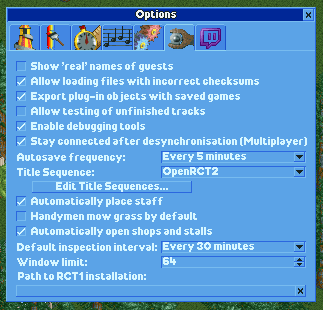
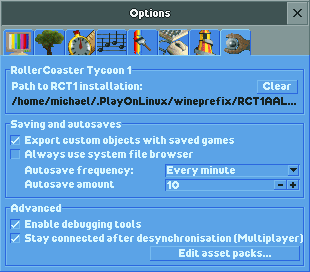
Add section about linking to GOG’s RCT1 version on Linux, update linking screenshot

diff --git a/installing/installing-on-linux-bsd.rst b/installing/installing-on-linux-bsd.rst
@@ -223,7 +223,22 @@ Steam
 
 Since RollerCoaster Tycoon 1 is a Windows game, you must first enable Steam Play if you haven’t done so already. To do this, use the menus: :menuselection:`Steam --> Settings --> Steam Play` and tick the options ``Enable Steam Play for supported titles`` and ``Enable Steam Play for all other titles``.
 
-With Steam Play enabled, the Install button should now be enabled. Click it. Once this is done, you can now link to it from OpenRCT2. To do this, start OpenRCT2, click ``Options`` and navigate to the tab with the wrench. On the bottom of that tab is a widget that you can click to set the directory. A directory browser will now open. Point it to ``/home/<username>/.local/share/Steam/steamapps/common/RollerCoaster Tycoon Deluxe``.
+With Steam Play enabled, the Install button should now be enabled. Click it. Once this is done, you can now link to it from OpenRCT2. To do this, start OpenRCT2, click ``Options`` and navigate to the tab with the wrench. On the top of that tab is a widget that you can click to set the directory. A directory browser will now open. Point it to ``/home/<username>/.local/share/Steam/steamapps/common/RollerCoaster Tycoon Deluxe``.
+
+GOG
+^^^
+
+First, install the ``innoextract`` package. See the earlier paragraphs for distribution-specific instructions if needed.
+
+You will need to use the offline installer for the game, the default GOG Galaxy installer will not work with this method.
+
+On gog.com, open your library. Hover over the thumbnail of RCT Deluxe and a button with an arrow will appear. Click it, then select ``View Downloads``. At the bottom of the pop-up there will be a section called “Download offline backup game installers”. Download the .exe file listed here.
+
+Afterwards, open a terminal and execute the following command:
+
+    innoextract <path to downloaded .exe>
+
+Once this is done, you can now link to it from OpenRCT2. To do this, start OpenRCT2, click ``Options`` and navigate to the tab with the wrench. On the top of that tab is a widget that you can click to set the directory. A directory browser will now open. Point it to the folder where ``rct.exe`` resides.
 
 Setting an RCT2 path without Zenity or Kdialog
 ----------------------------------------------
